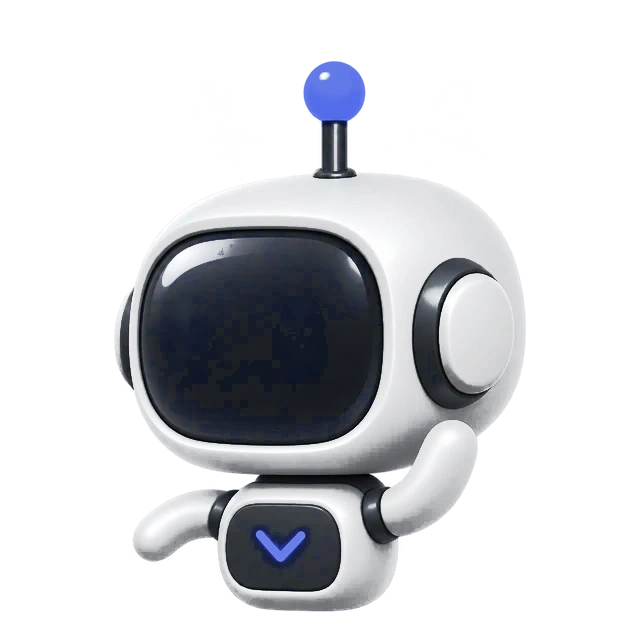
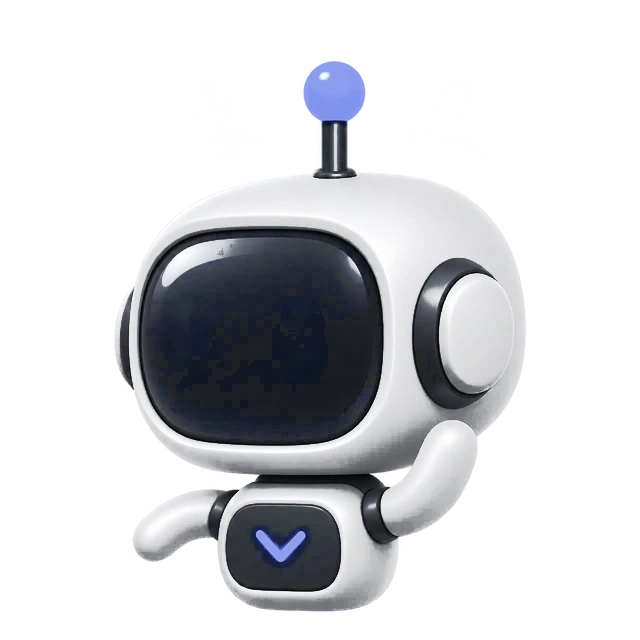
style(web): adjust xiaoxu bright white-blue mix to 60% blue / 40% white

Changed region(s): [[0.4688, 0.0938, 0.5938, 0.1875], [0.4062, 0.8125, 0.5, 0.875]]

diff --git a/apps/web/src/sidebar-assistant.css b/apps/web/src/sidebar-assistant.css
@@ -98,24 +98,24 @@
 }
 :root,
 :root[data-theme="dark"] {
-  --companion-blue-core: #edf2ff;
-  --companion-blue-inner: color-mix(in srgb, var(--app-accent) 80%, #ffffff);
-  --companion-blue-mid: var(--app-accent);
-  --companion-blue-edge: #4d6bff;
-  --companion-blue-glow: var(--app-accent-hover);
-  --companion-blue-halo: color-mix(in srgb, var(--app-accent) 90%, transparent);
-  --companion-blue-ambient: color-mix(in srgb, var(--app-accent-fill) 55%, transparent);
-  --companion-mouth-stroke: color-mix(in srgb, var(--app-accent) 80%, #ffffff);
+  --companion-blue-core: #f4f7ff;
+  --companion-blue-inner: color-mix(in srgb, var(--app-accent) 60%, #ffffff);
+  --companion-blue-mid: color-mix(in srgb, var(--app-accent) 80%, #ffffff);
+  --companion-blue-edge: var(--app-accent);
+  --companion-blue-glow: color-mix(in srgb, var(--app-accent) 60%, #ffffff);
+  --companion-blue-halo: color-mix(in srgb, var(--app-accent) 88%, transparent);
+  --companion-blue-ambient: color-mix(in srgb, var(--app-accent-fill) 50%, transparent);
+  --companion-mouth-stroke: color-mix(in srgb, var(--app-accent) 60%, #ffffff);
 }
 :root[data-theme="light"] {
-  --companion-blue-core: #dfe5ff;
-  --companion-blue-inner: #697eea;
-  --companion-blue-mid: #536de7;
+  --companion-blue-core: #eef2ff;
+  --companion-blue-inner: #8e9eef;
+  --companion-blue-mid: #7286ec;
   --companion-blue-edge: var(--app-accent);
-  --companion-blue-glow: #8da0f5;
-  --companion-blue-halo: color-mix(in srgb, var(--app-accent) 92%, transparent);
-  --companion-blue-ambient: color-mix(in srgb, var(--app-accent) 55%, transparent);
-  --companion-mouth-stroke: #697eea;
+  --companion-blue-glow: #9fb0f5;
+  --companion-blue-halo: color-mix(in srgb, var(--app-accent) 88%, transparent);
+  --companion-blue-ambient: color-mix(in srgb, var(--app-accent) 50%, transparent);
+  --companion-mouth-stroke: #8e9eef;
 }
 .companion-eye-dot {
   display: block;
@@ -123,10 +123,10 @@
   height: 100%;
   border-radius: 999px;
   background: radial-gradient(
-    circle at 38% 32%,
+    circle at 38% 34%,
     var(--companion-blue-core) 0%,
-    var(--companion-blue-inner) 26%,
-    var(--companion-blue-mid) 62%,
+    var(--companion-blue-inner) 38%,
+    var(--companion-blue-mid) 72%,
     var(--companion-blue-edge) 100%
   );
   box-shadow:
